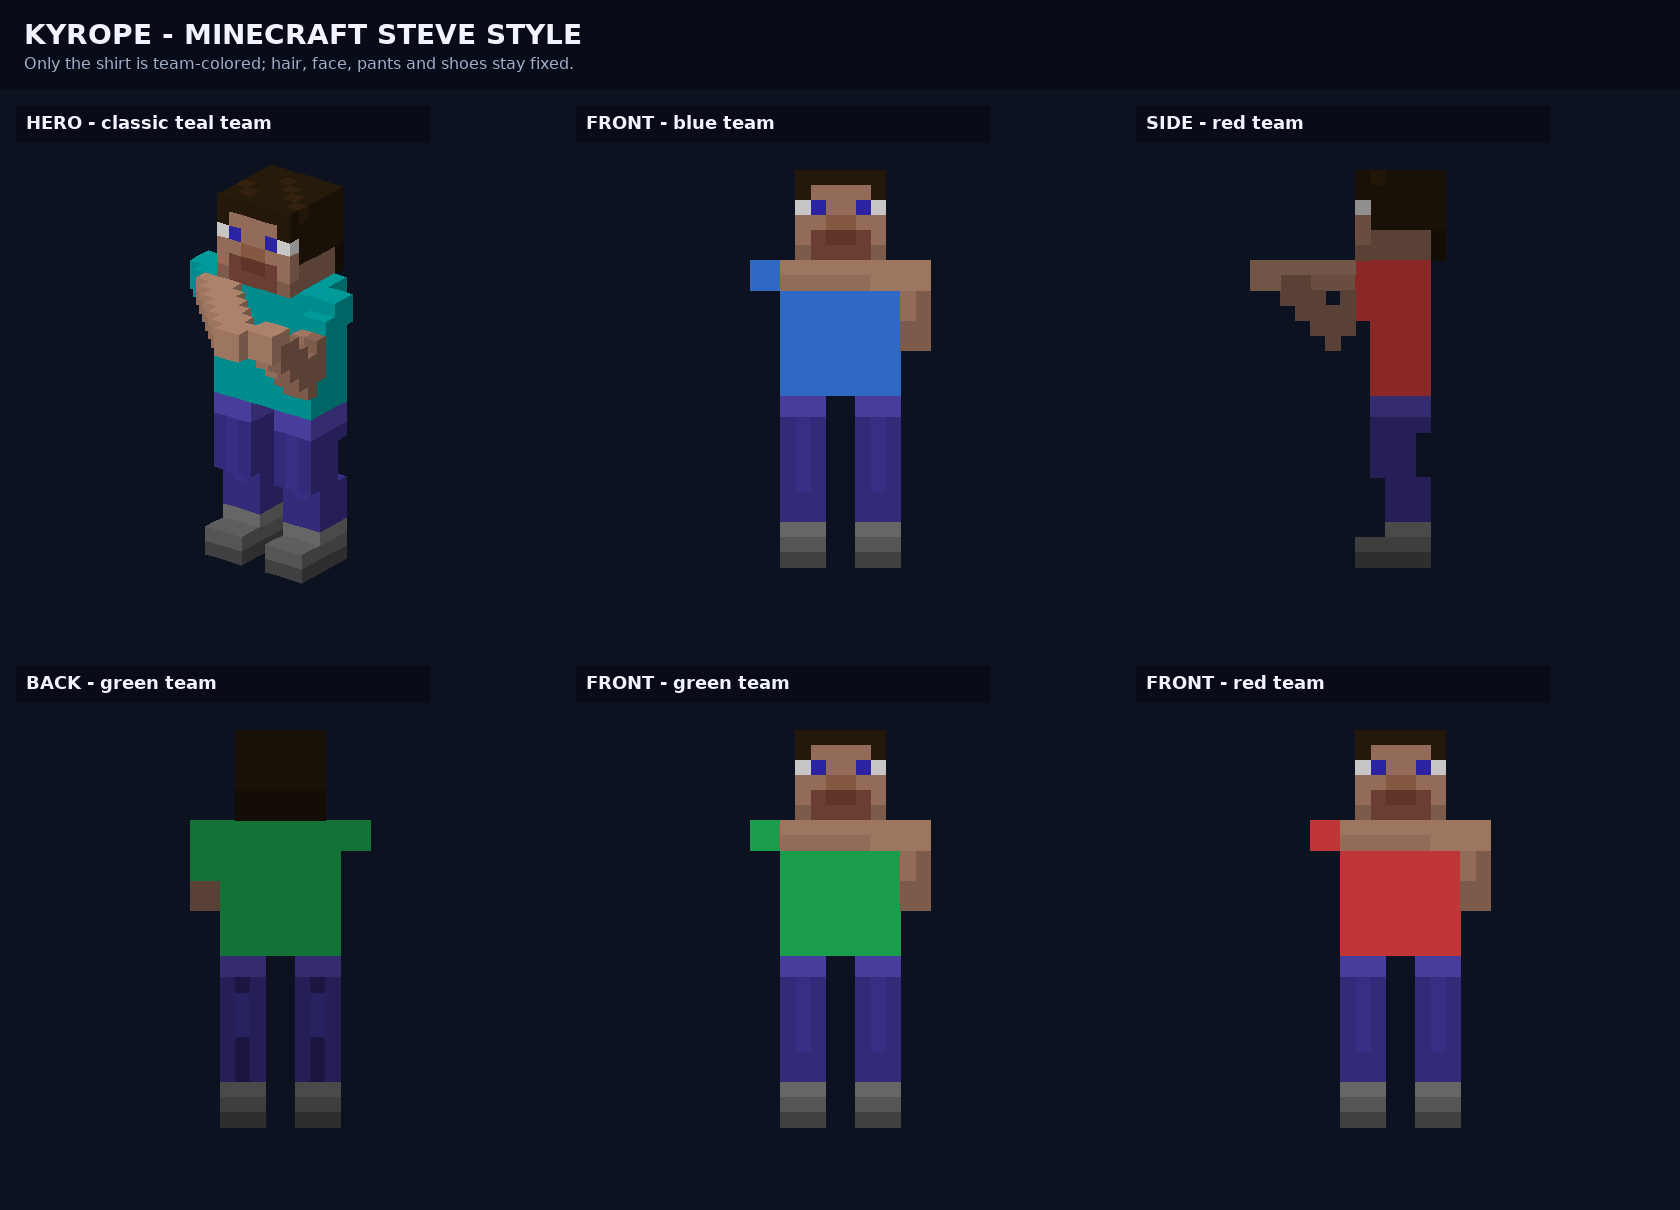
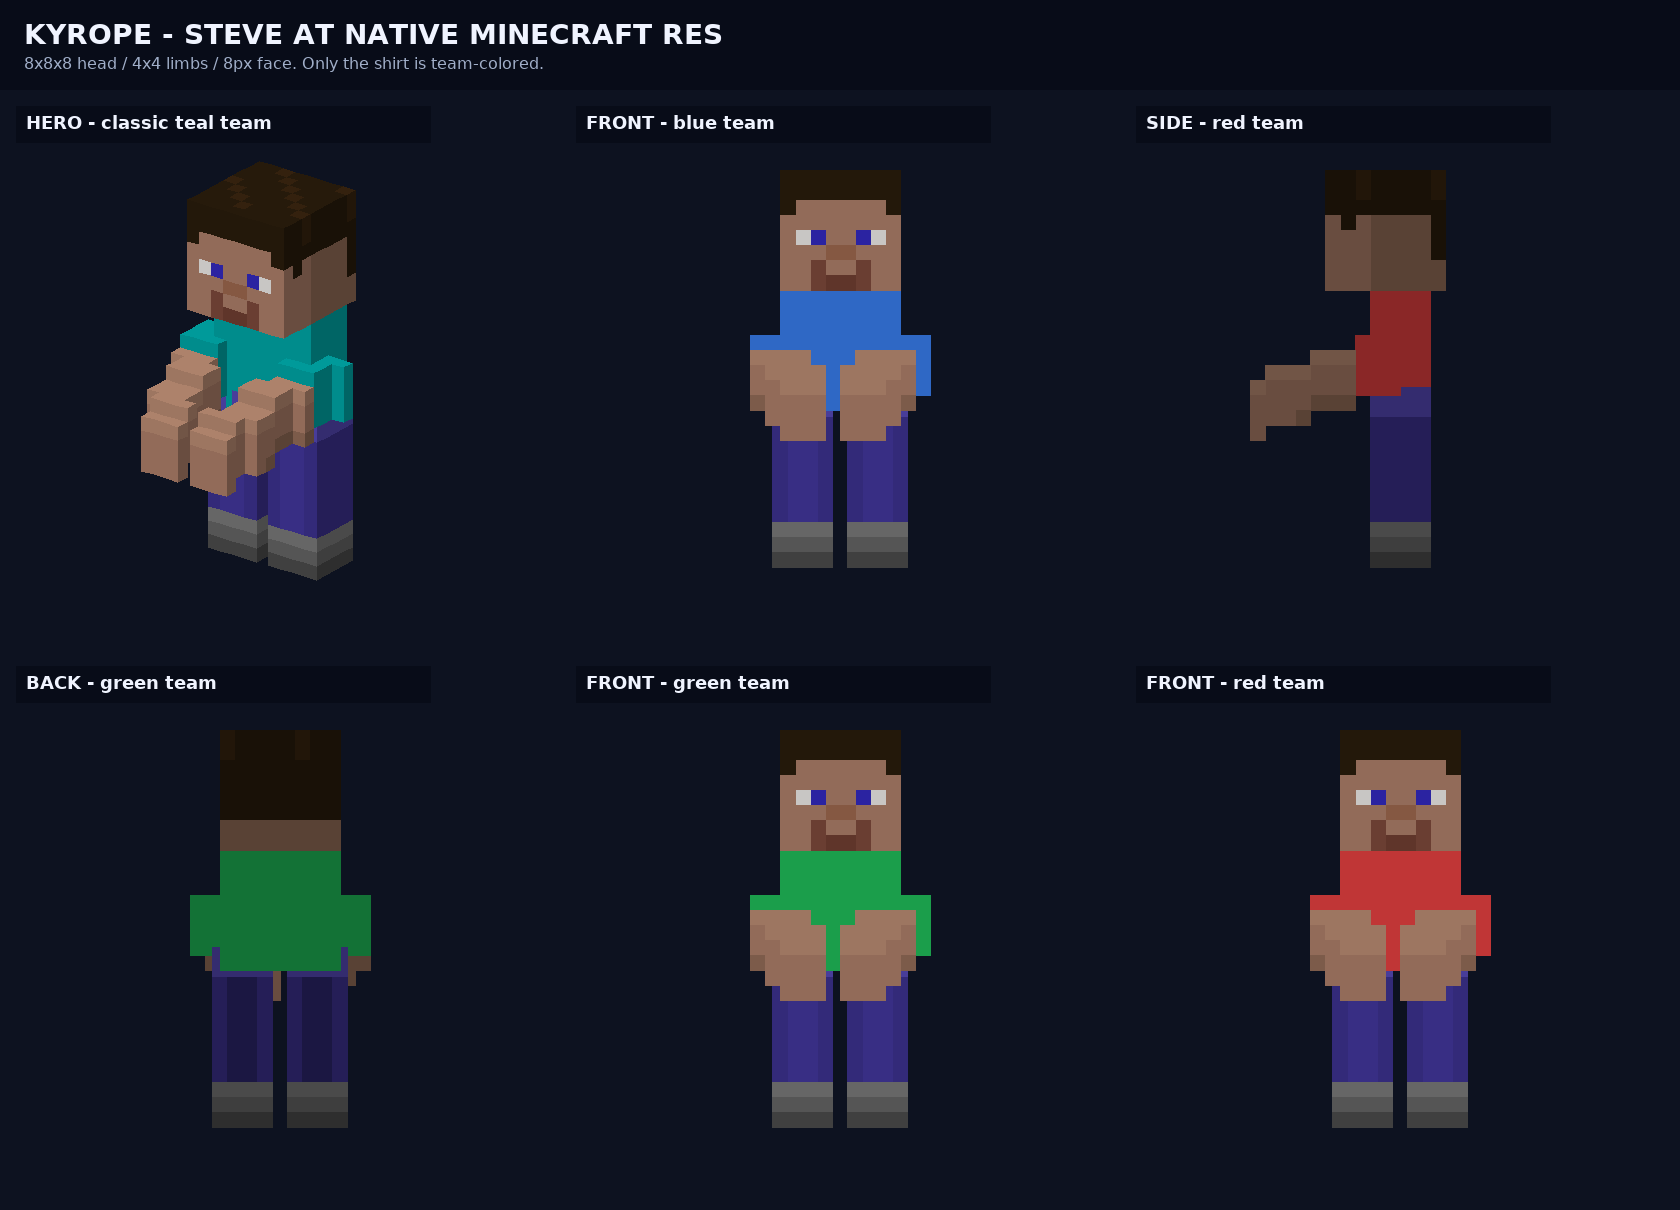
Rebuild Kyrope Steve at native Minecraft resolution

diff --git a/user-skins/Kyrope/Readme.md b/user-skins/Kyrope/Readme.md
@@ -2,36 +2,33 @@
 
 Personal skin for the in-game name `Kyrope`.
 
-Minecraft Steve-style look: blocky brown hair, simple pixel face, short-sleeve shirt,
-indigo pants, and gray shoes. **Only the shirt is team-colored**; hair, face, arms,
-pants, and shoes use fixed colors.
+Minecraft Steve rebuilt at **native Minecraft pixel resolution** instead of repainting the
+low-resolution Deuce mesh:
 
-Built on `reserved-skins/Deuce` geometry from ZeroSpades so the player silhouette and
-bounds stay stock. The Deuce base model is credited to OpenSpades Contributors and
-distributed under GPL-3.0-or-later; see the upstream
-`Resources/License/Credits-pak010-BaseSkin.md`. This is a fan-style recreation, not an
-official Minecraft asset.
+- `Head.kv6` — 8x8x8 with the full 8x8 Steve face (hair, eyes, nose, beard).
+- `Leg.kv6` / `LegRight.kv6` — 4x4x12, indigo pants + gray shoes.
+- `Arm*` / `UpperArm*` — 4x4x12 first-person limbs; sleeves team-colored.
+- `Torso.kv6` — 8-wide team-colored shirt.
+- `Arms.kv6` — native-thickness arms in a waist-height weapon hold.
 
-## Shipped parts
+**Only the shirt is team-colored.** Hair, face, arms/hands, pants and shoes use fixed colors.
 
-All 13 top-level parts are shipped so the Steve look is consistent in every state:
+## Resolution / bounds note
 
-- `Head.kv6` — brown hair, pixel face.
-- `Torso.kv6`, `TorsoCrouch.kv6` — team-colored shirt.
-- `Arms.kv6` — team-colored short sleeves, skin arms/hands.
-- `Arm.kv6`, `ArmRight.kv6` — skin forearms/hands with a team-colored sleeve cuff.
-- `UpperArm.kv6`, `UpperArmRight.kv6` — team-colored sleeves.
-- `Leg.kv6`, `LegRight.kv6`, `LegCrouch.kv6`, `LegRightCrouch.kv6` — fixed indigo pants and gray shoes.
-- `Dead.kv6` — matching hair/shirt/pants/shoes.
+ZeroSpades renders each KV6 voxel at a fixed 0.1 blocks, so native Steve (32 px tall) would
+exceed the stock player height. The torso is therefore compressed to 10 px and part pivots
+overlap slightly; the assembled standing AABB still equals stock Deuce exactly, so there is
+no silhouette or hitbox advantage. Crouch (`TorsoCrouch`, `Leg*Crouch`) and `Dead` keep the
+stock folded/flat poses, repainted to match, because those poses are unique to ZeroSpades.
 
-There are no `Rifle/`, `SMG/`, or `Shotgun/` overrides, so the top-level parts apply
-whatever the player holds. `Headlamp.kv6` and `XmasHat.kv6` are not shipped.
+## Rules
 
-## Rule checks
+- **Colorable:** shirt (torso, crouch torso, sleeves, dead-state shirt) uses the team sentinel;
+  no fixed near-black elsewhere.
+- **Readable silhouette:** assembled standing bounds equal stock Deuce; every part is a single
+  connected component.
+- **Every part present or inherited:** all 13 top-level parts shipped; no `Headlamp`/`XmasHat`,
+  no weapon-variant folders.
 
-- **Colorable:** the shirt (torso, crouch torso, sleeves, and dead-state shirt) uses the
-  black team-color sentinel. No fixed near-black colors are used elsewhere.
-- **Readable silhouette:** every part keeps stock Deuce voxel occupancy, dimensions, and
-  pivots, so the assembled player bounds are unchanged. Hitboxes are unchanged.
-- **Every part present or inherited:** all 13 parts are present; no shared accessories are
-  shipped.
+Base geometry/rig from `reserved-skins/Deuce` (OpenSpades Contributors, GPL-3.0-or-later).
+Fan-style recreation, not an official Minecraft asset.
